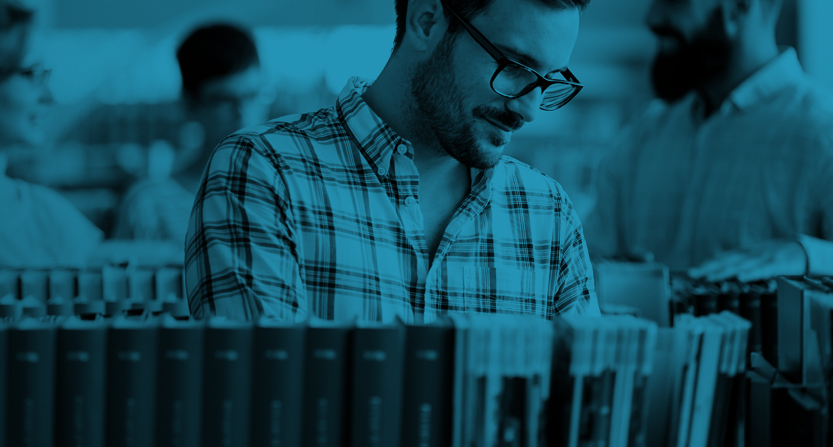
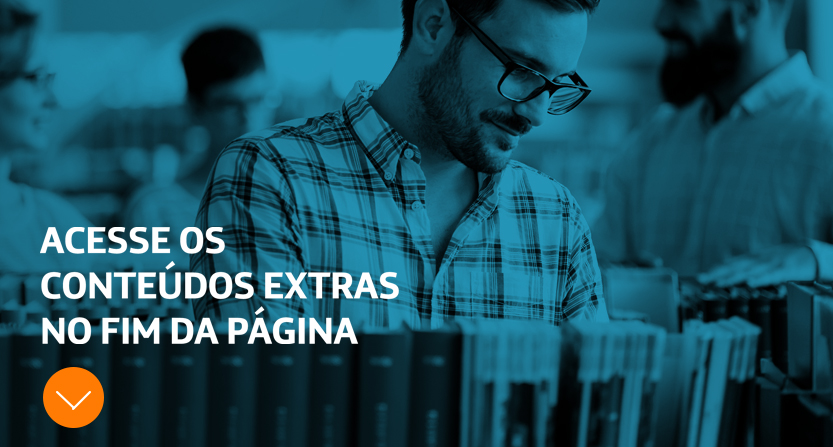
add fonts, styles, and images from project

diff --git a/assets/css/main.css b/assets/css/main.css
@@ -108,10 +108,32 @@
   font-style: normal;
 }
 
-body {
-  font-family: 'TelefonicaHeadlineLightRg'
+
+@font-face {
+  font-family: 'RegularItalic';
+  src: url('../css/fonts/RegularItalic/TelefonicaWeb-RegularItalic.eot'); /* IE9 Compat Modes */
+  src: url('../css/fonts/RegularItalic/TelefonicaWeb-RegularItalic.eot#iefix') format('embedded-opentype'), /* IE6-IE8 */
+       url('./fonts/RegularItalic/TelefonicaWeb-RegularItalic.woff2') format('woff2'), /* Super Modern Browsers */
+       url('./fonts/RegularItalic/TelefonicaWeb-RegularItalic.woff') format('woff'), /* Pretty Modern Browsers */
+       url('./fonts/RegularItalic/TelefonicaWeb-RegularItalic.svg#RegularItalic') format('svg'); /* Legacy iOS */
 }
 
+@font-face {
+  font-family: 'Bold';
+  src: url('./fonts/Bold/TelefonicaWeb-Bold.eot'); /* IE9 Compat Modes */
+  src: url('./fonts/Bold/TelefonicaWeb-Bold.eot#iefix') format('embedded-opentype'), /* IE6-IE8 */
+       url('./fonts/Bold/TelefonicaWeb-Bold.woff2') format('woff2'), /* Super Modern Browsers */
+       url('./fonts/Bold/TelefonicaWeb-Bold.woff2') format('woff'), /* Pretty Modern Browsers */
+       url('./fonts/Bold/TelefonicaWeb-Bold.svg#Bold') format('svg'); /* Legacy iOS */
+}
+
+body {
+  font-family: 'TelefonicaHeadlineLightRg';
+}
+
+b {
+  font-family: Bold;
+}
 
 .home {
   width: 100%;
@@ -265,11 +287,11 @@ ul.ulsico a {
 .item.purple .h4 {
   font-size: 25px;
   font-weight: 600;
+  font-family: Bold;
 }
 
 .item.purple .span {
   font-size: 14px;
-  font-weight: 600;
   line-height: 18px;
   display: block;
 }
@@ -473,6 +495,7 @@ input:checked + .slide-container .nav label { display: block; }
 }
 .maps .map .title b {
   font-size: 25px;
+  font-family: Bold;
 }
 
 .maps .map .title:after {
@@ -521,6 +544,7 @@ a.titleItem {
 .active a.titleItem {
   font-size: 17px;
   font-weight: 600;
+  font-family: Bold;
   color: #9b019b;
   padding: 10px 0;
 }
@@ -538,6 +562,7 @@ a.titleItem {
 .links .link {
   color: #9b019b;
   font-weight: 600;
+  font-family: Bold;
   display: flex;
   align-items: center;
 }
@@ -551,7 +576,7 @@ a.titleItem {
   margin-right: 5px;
 }
 .map .list {
-  border-left: 1px solid rgba(155, 0, 155, 0.4);
+  /* border-left: 1px solid #000; */
   padding-left: 30px;
 }
 
@@ -568,6 +593,24 @@ a.titleItem {
   padding-left: 0;
 }
 
+.map:after {
+  content: '';
+  width: 1px;
+  height: 90%;
+  background: #000;
+  display: block;
+  position: absolute;
+  top: 70px;
+}
+
+.map {
+  position: relative;
+}
+
+.map:first-child:after {
+  display: none;
+}
+
 ul.list.extra {
   padding: 0;
   margin: 0;
@@ -579,6 +622,7 @@ ul.list.extra li p {
   color: #023143;
   font-size: 20px;
   font-weight: 600;
+  font-family: Bold;
 }
 
 ul.list.extra li a {

diff --git a/assets/js/main.js b/assets/js/main.js
@@ -226,6 +226,7 @@ const maps = [
   },
   {
     title: 'Transversais',
+    removeSub: true,
     items: [
       {
         name: 'TECNOLOGIA',
@@ -340,7 +341,7 @@ const renderItemsMap = items => {
 const renderMaps = (maps).map((e, i)=> (`
   <div class="map">
     <div class="title">
-      MAPS de <br/><b>${e.title}</b>
+      MAPS ${e.removeSub ? '' : 'de' } <br/><b>${e.title}</b>
     </div>
     <div class="list">
       ${renderItemsMap(e.items)}
@@ -356,7 +357,7 @@ const html =
         <div class="bannerFixed">
           <div class="item purple">
             <h4 class="h4 white uppercase">Plataforma <br>de MAPS</h4>
-            <span class="span white">Aqui você encontra diversos guias, <br>interativos ou em PDF, para entender <br>o passo a passo de muita coisa legal.</span>
+            <span class="span white">Aqui você encontra todos os Materiais de Apoio ao Professor em versão interativa, versão para baixar ou versão completa!</span>
           </div>
           <div class="item">
             <img src="./assets/images/minibanner-01.jpg" alt="">
@@ -368,19 +369,17 @@ const html =
               <input type="radio" name="radio-buttons" id="img-1" checked />
               <li class="slide-container">
                 <div class="slide-image">
-                  <img src="./assets/images/banner-01.jpg">
-                  <div class="text">
-                    <b>Acesse os conteúdos extras no fim da página</b> 
-                  </div>
+                  <a href="#extraContent">
+                    <img src="./assets/images/banner-01.jpg">
+                  </a>
                 </div>
               </li>
               <input type="radio" name="radio-buttons" id="img-2" />
               <li class="slide-container">
                 <div class="slide-image">
-                  <img src="./assets/images/banner-02.jpg">
-                  <div class="text">
-                  Acesse o <b>Guia de Conteúdos Pedagógicos</b>, com uma síntese de todos os conteúdos dos MAPs
-                  </div>
+                  <a href="#extraContent">
+                    <img src="./assets/images/banner-02.jpg">
+                  </a>
                 </div>
               </li>
               <div class="carousel-dots">
@@ -407,7 +406,7 @@ const html =
       </div>
     </div>
   </div>
-  <div class="content extra_content">
+  <div class="content extra_content" id="extraContent">
     <div class="sectionMaps">
       <div class="container plus">
         <div class="title center">

diff --git a/matematica/index.html b/matematica/index.html
@@ -18,4 +18,4 @@
 
 <script src="../assets/js/jquery.js"></script>
 <script src="../assets/js/bootstrap.js"></script>
-<script src="./index.js"></script>
+<script src="./main.js"></script>
